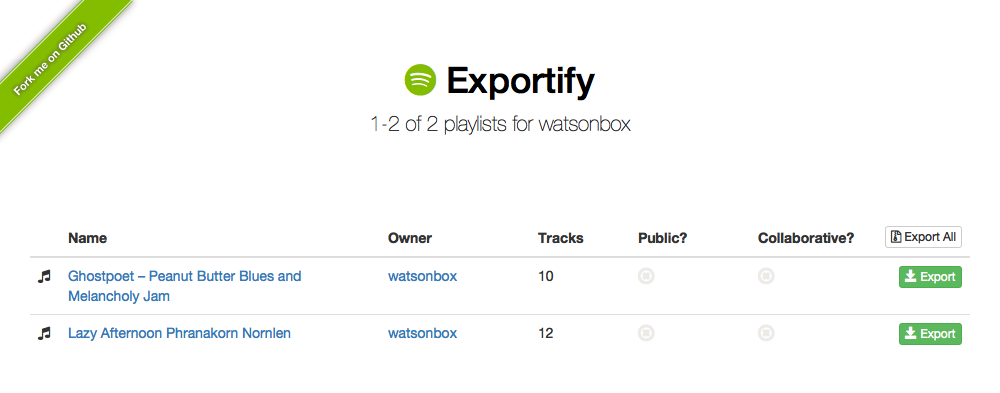
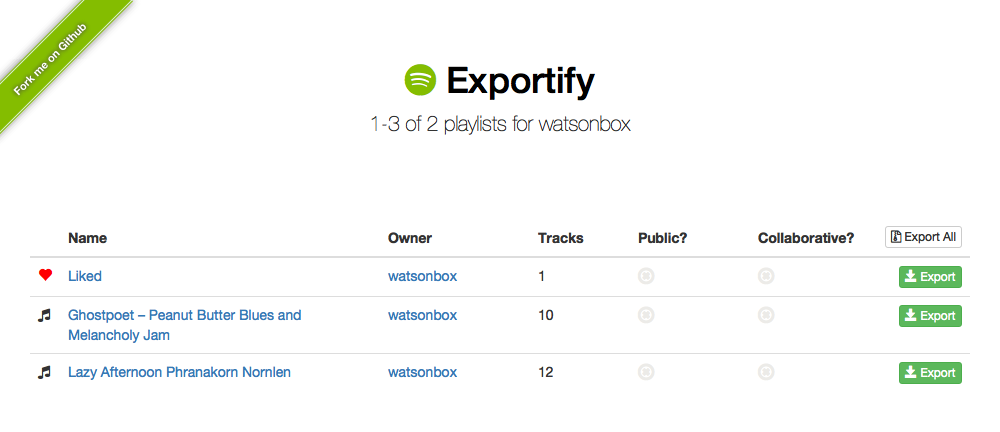
Deploy watsonbox/exportify to github.com/watsonbox/exportify.git:gh-pages

Changed region(s): [[0.031, 0.5191, 0.961, 0.916], [0.372, 0.1527, 0.651, 0.3359], [0.0, 0.0, 0.124, 0.3359]]

diff --git a/exportify.js b/exportify.js
@@ -10,7 +10,7 @@ window.Helpers = {
     window.location = "https://accounts.spotify.com/authorize" +
       "?client_id=" + client_id +
       "&redirect_uri=" + encodeURIComponent([location.protocol, '//', location.host, location.pathname].join('')) +
-      "&scope=playlist-read-private%20playlist-read-collaborative" +
+      "&scope=playlist-read-private%20playlist-read-collaborative%20user-library-read" +
       "&response_type=token";
   },
 
@@ -55,18 +55,62 @@ var PlaylistTable = React.createClass({
 
   loadPlaylists: function(url) {
     var userId = '';
+    var firstPage = typeof url === 'undefined' || url.indexOf('offset=0') > -1;
 
     window.Helpers.apiCall("https://api.spotify.com/v1/me", this.props.access_token).then(function(response) {
       userId = response.id;
 
-      return window.Helpers.apiCall(
-        typeof url !== 'undefined' ? url : "https://api.spotify.com/v1/users/" + userId + "/playlists",
-        this.props.access_token
-      )
-    }.bind(this)).done(function(response) {
+      // Show liked tracks playlist if viewing first page
+      if (firstPage) {
+        return $.when.apply($, [
+          window.Helpers.apiCall(
+            "https://api.spotify.com/v1/users/" + userId + "/tracks",
+            this.props.access_token
+          ),
+          window.Helpers.apiCall(
+            "https://api.spotify.com/v1/users/" + userId + "/playlists",
+            this.props.access_token
+          )
+        ])
+      } else {
+        return window.Helpers.apiCall(url, this.props.access_token);
+      }
+    }.bind(this)).done(function() {
+      var response;
+      var playlists = [];
+
+      if (arguments[1] === 'success') {
+        response = arguments[0];
+        playlists = arguments[0].items;
+      } else {
+        response = arguments[1][0];
+        playlists = arguments[1][0].items;
+      }
+
+      // Show library of saved tracks if viewing first page
+      if (firstPage) {
+        playlists.unshift({
+          "id": "liked",
+          "name": "Liked",
+          "public": false,
+          "collaborative": false,
+          "owner": {
+            "id": userId,
+            "display_name": userId,
+            "uri": "spotify:user:" + userId
+          },
+          "tracks": {
+            "href": "https://api.spotify.com/v1/me/tracks",
+            "limit": arguments[0][0].limit,
+            "total": arguments[0][0].total
+          },
+          "uri": "spotify:user:" + userId + ":saved"
+        });
+      }
+
       if (this.isMounted()) {
         this.setState({
-          playlists: response.items,
+          playlists: playlists,
           playlistCount: response.total,
           nextURL: response.next,
           prevURL: response.previous
@@ -131,6 +175,14 @@ var PlaylistRow = React.createClass({
     }
   },
 
+  renderIcon: function(playlist) {
+    if (playlist.name == 'Liked') {
+      return <i className="glyphicon glyphicon-heart" style={{ color: 'red' }}></i>;
+    } else {
+      return <i className="fa fa-music"></i>;
+    }
+  },
+
   render: function() {
     playlist = this.props.playlist
     if(playlist.uri==null) return (
@@ -145,7 +197,7 @@ var PlaylistRow = React.createClass({
     );
     return (
       <tr key={this.props.key}>
-        <td><i className="fa fa-music"></i></td>
+        <td>{this.renderIcon(playlist)}</td>
         <td><a href={playlist.uri}>{playlist.name}</a></td>
         <td><a href={playlist.owner.uri}>{playlist.owner.display_name}</a></td>
         <td>{playlist.tracks.total}</td>
@@ -204,11 +256,20 @@ var PlaylistsExporter = {
     var playlistFileNames = [];
 
     window.Helpers.apiCall("https://api.spotify.com/v1/me", access_token).then(function(response) {
-      var requests = [];
       var limit = 20;
+      var userId = response.id;
 
+      // Initialize requests with starred playlist
+      var requests = [
+        window.Helpers.apiCall(
+          "https://api.spotify.com/v1/users/" + userId + "/starred",
+          access_token
+        )
+      ];
+
+      // Add other playlists
       for (var offset = 0; offset < playlistCount; offset = offset + limit) {
-        var url = "https://api.spotify.com/v1/users/" + response.id + "/playlists";
+        var url = "https://api.spotify.com/v1/users/" + userId + "/playlists";
         requests.push(
           window.Helpers.apiCall(url + '?offset=' + offset + '&limit=' + limit, access_token)
         )
@@ -220,10 +281,29 @@ var PlaylistsExporter = {
 
         // Handle either single or multiple responses
         if (typeof arguments[0].href == 'undefined') {
-          $(arguments).each(function(i, response) { $.merge(playlists, response[0].items) })
+          $(arguments).each(function(i, response) {
+            if (typeof response[0].items === 'undefined') {
+              // Single playlist
+              playlists.push(response[0]);
+            } else {
+              // Page of playlists
+              $.merge(playlists, response[0].items);
+            }
+          })
         } else {
           playlists = arguments[0].items
         }
+
+        // Add library of saved tracks
+        playlists.unshift({
+          "id": "saved",
+          "name": "Saved",
+          "tracks": {
+            "href": "https://api.spotify.com/v1/me/tracks",
+            "limit": 50,
+            "total": 2500 // TODO: get rid of hard-coded library size
+          },
+        });
 
         $(playlists).each(function(i, playlist) {
           playlistFileNames.push(PlaylistExporter.fileName(playlist));
@@ -257,11 +337,11 @@ var PlaylistExporter = {
 
   csvData: function(access_token, playlist) {
     var requests = [];
-    var limit = 100;
+    var limit = playlist.tracks.limit || 100;
 
     for (var offset = 0; offset < playlist.tracks.total; offset = offset + limit) {
       requests.push(
-        window.Helpers.apiCall(playlist.tracks.href + '?offset=' + offset + '&limit=' + limit, access_token)
+        window.Helpers.apiCall(playlist.tracks.href.split('?')[0] + '?offset=' + offset + '&limit=' + limit, access_token)
       )
     }
 

diff --git a/test/integration/exportify_tests.js b/test/integration/exportify_tests.js
@@ -44,7 +44,7 @@ casper.test.begin("Testing initial authentication redirect", 2, function(test) {
       "https://accounts.spotify.com/login?continue=" +
         encodeURIComponent(
           "https://accounts.spotify.com/authorize?" +
-          "scope=playlist-read-private+playlist-read-collaborative&" +
+          "scope=playlist-read-private+playlist-read-collaborative+user-library-read&" +
           "response_type=token&" +
           "redirect_uri=http%3A%2F%2Flocalhost%3A8080%2Fexportify.html&" +
           "client_id=9950ac751e34487dbbe027c4fd7f8e99"
@@ -73,7 +73,7 @@ casper.test.begin("Testing initial authentication redirect with different client
       "https://accounts.spotify.com/login?continue=" +
         encodeURIComponent(
           "https://accounts.spotify.com/authorize?" +
-          "scope=playlist-read-private+playlist-read-collaborative&" +
+          "scope=playlist-read-private+playlist-read-collaborative+user-library-read&" +
           "response_type=token&" +
           "redirect_uri=http%3A%2F%2Flocalhost%3A8080%2Fexportify.html&" +
           "client_id=123456"
@@ -87,15 +87,23 @@ casper.test.begin("Testing initial authentication redirect with different client
   });
 });
 
-casper.test.begin("Testing loading and displaying playlists", 10, function(test) {
+casper.test.begin("Testing loading and displaying playlists", 15, function(test) {
   casper.viewport(1000, 1000);
 
   casper.start('http://localhost:8080/exportify.html#access_token=TOKEN', function() {
     this.evaluate(function() {
+      $.mockjaxSettings.throwUnmocked = true;
+
       $.mockjax({
         url: "https://api.spotify.com/v1/me",
         contentType: 'text/json',
         proxy: 'test/assets/mocks/watsonbox.json'
+      });
+
+      $.mockjax({
+        url: "https://api.spotify.com/v1/users/watsonbox/tracks",
+        contentType: 'text/json',
+        proxy: 'test/assets/mocks/watsonbox_tracks.json'
       });
 
       $.mockjax({
@@ -107,19 +115,26 @@ casper.test.begin("Testing loading and displaying playlists", 10, function(test)
   });
 
   casper.waitUntilVisible('#playlists', function() {
-    // Ghostpoet
-    test.assertSelectorHasText('#playlists table tbody tr:nth-child(1) td:nth-child(2)', 'Ghostpoet – Peanut Butter Blues and Melancholy Jam');
+    // Liked tracks
+    test.assertSelectorHasText('#playlists table tbody tr:nth-child(1) td:nth-child(2)', 'Liked');
     test.assertSelectorHasText('#playlists table tbody tr:nth-child(1) td:nth-child(3)', 'watsonbox');
-    test.assertSelectorHasText('#playlists table tbody tr:nth-child(1) td:nth-child(4)', '10');
+    test.assertSelectorHasText('#playlists table tbody tr:nth-child(1) td:nth-child(4)', '1');
     test.assertExists('#playlists table tbody tr:nth-child(1) td:nth-child(5) i.fa-times-circle-o');
     test.assertExists('#playlists table tbody tr:nth-child(1) td:nth-child(6) i.fa-times-circle-o');
 
-    // Lazy Afternoon
-    test.assertSelectorHasText('#playlists table tbody tr:nth-child(2) td:nth-child(2)', 'Lazy Afternoon Phranakorn Nornlen');
+    // Ghostpoet
+    test.assertSelectorHasText('#playlists table tbody tr:nth-child(2) td:nth-child(2)', 'Ghostpoet – Peanut Butter Blues and Melancholy Jam');
     test.assertSelectorHasText('#playlists table tbody tr:nth-child(2) td:nth-child(3)', 'watsonbox');
-    test.assertSelectorHasText('#playlists table tbody tr:nth-child(2) td:nth-child(4)', '12');
+    test.assertSelectorHasText('#playlists table tbody tr:nth-child(2) td:nth-child(4)', '10');
     test.assertExists('#playlists table tbody tr:nth-child(2) td:nth-child(5) i.fa-times-circle-o');
     test.assertExists('#playlists table tbody tr:nth-child(2) td:nth-child(6) i.fa-times-circle-o');
+
+    // Lazy Afternoon
+    test.assertSelectorHasText('#playlists table tbody tr:nth-child(3) td:nth-child(2)', 'Lazy Afternoon Phranakorn Nornlen');
+    test.assertSelectorHasText('#playlists table tbody tr:nth-child(3) td:nth-child(3)', 'watsonbox');
+    test.assertSelectorHasText('#playlists table tbody tr:nth-child(3) td:nth-child(4)', '12');
+    test.assertExists('#playlists table tbody tr:nth-child(3) td:nth-child(5) i.fa-times-circle-o');
+    test.assertExists('#playlists table tbody tr:nth-child(3) td:nth-child(6) i.fa-times-circle-o');
   });
 
   casper.wait(1000, function() {
